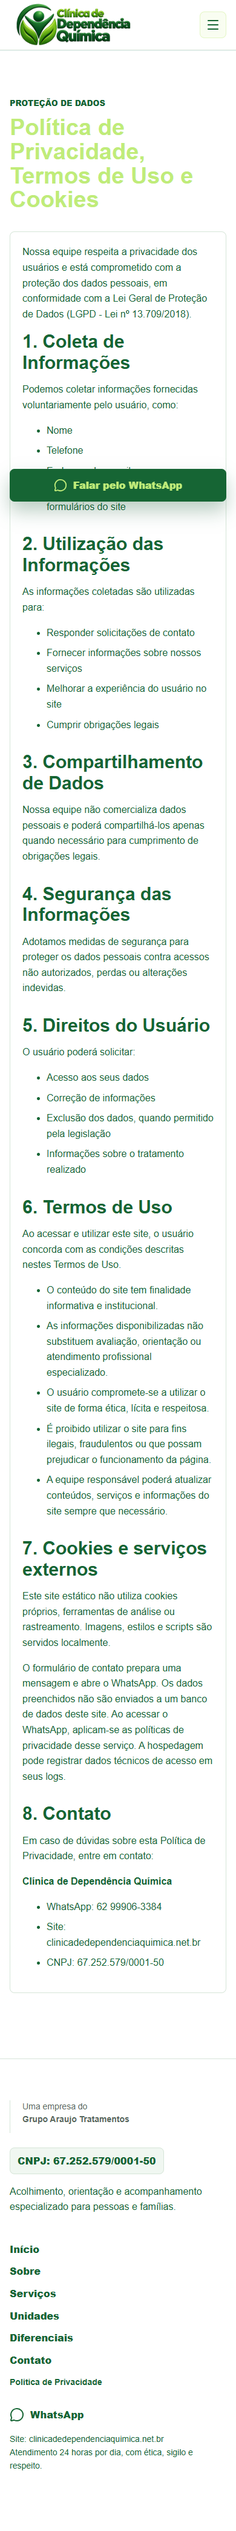
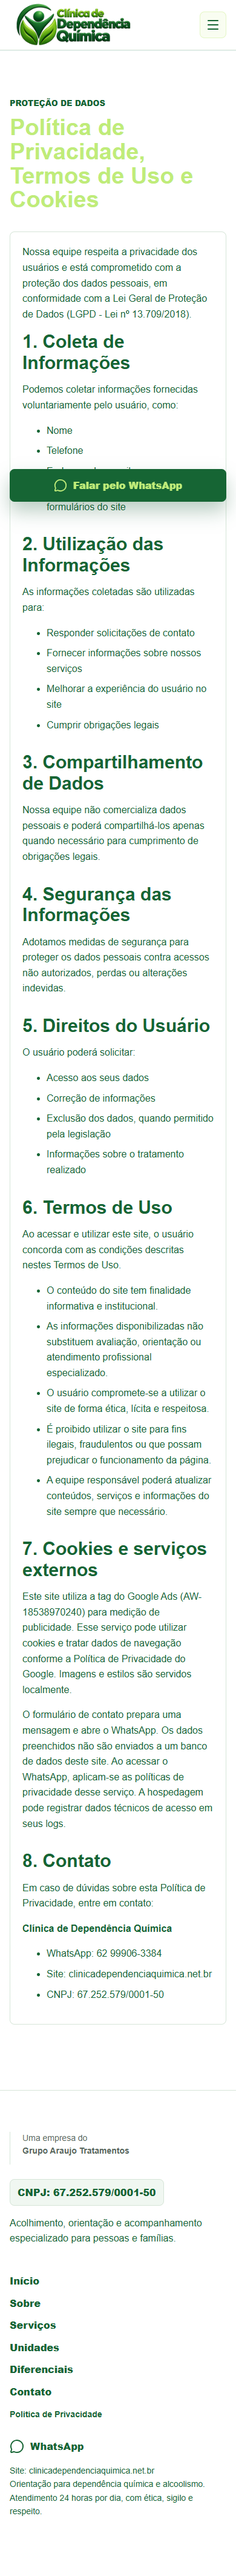
link das clinicas corrigido

diff --git a/assets/js/units.js b/assets/js/units.js
@@ -1,1 +1,1 @@
-window.GAT_CONFIG = {"whatsapp": "556299063384", "atendente": "equipe", "unidades": [{"id": "goiania-idoso-masculina-2", "nome": "Goiânia - Idoso Masculina 2", "cidade": "Goiânia", "estado": "GO", "modalidade": "Masculina", "descricao": "Goiânia - Idoso Masculina 2 ⭐⭐⭐ em Goiânia - GO. Tratamento Lar de Idosos com valor sob consulta. Meio padrão. Consulte disponibilidade.", "recursos": [], "fotos": ["assets/media/427cd3642923bb40015a.webp", "assets/media/cc33f22079661f767727.webp", "assets/media/fd2808c03150c9022508.webp", "assets/media/6036748a1e41e1aaaa00.webp", "assets/media/8fbf751f36380d94a654.webp", "assets/media/195a05e2be423a49d0fc.webp", "assets/media/4cbd1d166d1dd61d5aeb.webp", "assets/media/4155ca53f80f6104e83b.webp"], "url": ""}, {"id": "corumbaiba-masculina-1", "nome": "Corumbaíba - Masculina 1", "cidade": "Corumbaíba", "estado": "GO", "modalidade": "Masculina", "descricao": "Corumbaíba - Masculina 1 ⭐⭐⭐ em Corumbaíba - GO. Tratamento Voluntário e Involuntário com valor sob consulta. Popular. Consulte disponibilidade.", "recursos": [], "fotos": ["assets/media/9cb9c52737153667db05.webp", "assets/media/a15bd3b739c5f13d6792.webp", "assets/media/682801a2c1dea6ad23b9.webp", "assets/media/dc340a9bf6c7bdd74ee4.webp", "assets/media/e8e45a8a4b342f0343c6.webp", "assets/media/b28f193b29bf6669073d.webp", "assets/media/437e5971cb4d68b9d1f6.webp", "assets/media/2c321b13eb25618b7112.webp", "assets/media/84cfaafa19a9b7d8f9ba.webp", "assets/media/33b5687242ba8bf9d43f.webp", "assets/media/3ae8b7a3df43f05c01f1.webp", "assets/media/016b930a4c0a2327f2bc.webp"], "url": ""}, {"id": "anapolis-feminina-1", "nome": "Anápolis - Feminina 1", "cidade": "Anápolis", "estado": "GO", "modalidade": "Feminina", "descricao": "Anápolis - Feminina 1 ⭐⭐⭐ em Anápolis - GO. Tratamento Voluntário e Involuntário com valor sob consulta. Meio padrão. Consulte disponibilidade.", "recursos": [], "fotos": ["assets/media/b2e0cd79243a9f98409d.webp", "assets/media/b0f86d0efbf8eb99ebe7.webp", "assets/media/d274cfa06ad95f3bbc24.webp", "assets/media/3eb56accb69e7f3b12d1.webp", "assets/media/4bc618c6c8952773ea6b.webp", "assets/media/4a251c982dbfde704d24.webp", "assets/media/27bbfea29b2ac36787f9.webp", "assets/media/f1bb0b000c0336a913d5.webp", "assets/media/b55add92314c8ac632d8.webp", "assets/media/641e198afaf48e90d81d.webp", "assets/media/97e3b5a0330693116732.webp", "assets/media/f214a3440264955100b8.webp", "assets/media/70a8fd131a883529c545.webp", "assets/media/df505790a877ccdfdb27.webp", "assets/media/f0ecf6051a7b27c61989.webp", "assets/media/c350a7293fa9bd6dc577.webp", "assets/media/d1b735140f6e9d3201a7.webp", "assets/media/ccf06262c7c24b2ee12c.webp", "assets/media/bcad87ce07ec126a65c6.webp", "assets/media/2dd2d7339b98fb77a831.webp"], "url": ""}, {"id": "aparecida-de-goiania-masculina-3", "nome": "Aparecida de Goiânia - Masculina 3", "cidade": "Aparecida de Goiânia", "estado": "GO", "modalidade": "Masculina", "descricao": "Aparecida de Goiânia - Masculina 3 ⭐⭐⭐ em Aparecida de Goiânia - GO. Tratamento Voluntário e Involuntário com valor sob consulta. Meio padrão. Consulte disponibilidade.", "recursos": [], "fotos": ["assets/media/f6fcdc0563b84cb86832.webp", "assets/media/bf678a14745e68d600d2.webp", "assets/media/e1905871313c7171cb84.webp", "assets/media/41cc2a6e9d723414a15f.webp", "assets/media/22981ae6b9d1e222233e.webp", "assets/media/7b58e1593744f5c7afe5.webp", "assets/media/3f8c21ad08a6764a8580.webp", "assets/media/4d8bd66ec2503741df31.webp", "assets/media/d0022c1ae74eeeeef374.webp", "assets/media/efc3711f69fbe3a70f1d.webp", "assets/media/e466e155c0ee7bf4df76.webp", "assets/media/1ab22a8a4510c23fba5b.webp", "assets/media/ecf240ec81120a4a3aa1.webp"], "url": ""}, {"id": "goiania-feminina-2", "nome": "Goiânia - Feminina 2", "cidade": "Goiânia", "estado": "GO", "modalidade": "Feminina", "descricao": "Goiânia - Feminina 2 ⭐⭐⭐ em Goiânia - GO. Tratamento Voluntário com valor sob consulta. Meio padrão. Consulte disponibilidade.", "recursos": [], "fotos": ["assets/media/b65a3763e73fed0c8395.webp", "assets/media/4f9d5c3a208a275bc110.webp", "assets/media/4f91a2faccbd1b529103.webp", "assets/media/d66fa425bc9662d1657e.webp", "assets/media/7de343d1f59572a74485.webp", "assets/media/25260f053501a53d8728.webp", "assets/media/bcc12a415a77ae8a934c.webp", "assets/media/90c44f7f9fba665dfc9c.webp", "assets/media/f9677e7f975d5a9bd4c6.webp", "assets/media/ecce257ec7fd5cb714fc.webp", "assets/media/550f897aa00326d2205b.webp", "assets/media/1ddafff143a8c3c076d2.webp", "assets/media/5f561254fd2badd6b687.webp", "assets/media/b008f09bfdfa8587f60d.webp", "assets/media/68e6080212870c40d169.webp", "assets/media/e9957fe3b5babb598914.webp", "assets/media/ee8de95b10e3c60074ac.webp", "assets/media/0f9b523c45a0c3cda362.webp", "assets/media/1c63fdc2df0724f4a1f8.webp", "assets/media/072382ad3a9d0adedb92.webp", "assets/media/019568b5ad7b1b1d04cc.webp", "assets/media/d7cdbc41df427c0434a8.webp", "assets/media/3e2762a39bda8b32ba37.webp", "assets/media/28ce775941355399c51d.webp", "assets/media/eeb2369c1e0a25b3af24.webp", "assets/media/fb2ad270b58d7ab10e54.webp", "assets/media/ecdf79412c9fa39bbbca.webp", "assets/media/d56de365173621b96463.webp", "assets/media/0d9a540b0ce2e6e304cc.webp", "assets/media/d75065474598cfe06068.webp"], "url": ""}, {"id": "trindade-masculina-1", "nome": "Trindade - Masculina 1", "cidade": "Trindade", "estado": "GO", "modalidade": "Masculina", "descricao": "Trindade - Masculina 1 ⭐⭐⭐ em Trindade - GO. Tratamento Voluntário e Involuntário com valor sob consulta. Popular. Consulte disponibilidade.", "recursos": [], "fotos": ["assets/media/3a4bf1b68be48ac88ca1.webp", "assets/media/9ed23ab50fd785d128a4.webp", "assets/media/2191502ab73042caab0f.webp", "assets/media/7af73d23b6b2a2309850.webp", "assets/media/ae082239c2696405ceff.webp", "assets/media/402e9c2a6434c3f6fd24.webp", "assets/media/a733540559967c2bc2a6.webp", "assets/media/827a1f73dd378f50a117.webp", "assets/media/b767ccabe5de2f8f7ada.webp", "assets/media/695b1f859fefe27d1458.webp", "assets/media/c453564c26c11325f086.webp", "assets/media/edc83db3d5843a759313.webp", "assets/media/ff60ff6fd8489f3a9331.webp", "assets/media/1d3e8ce52103aea09878.webp", "assets/media/101ded144e8dfaf4bd06.webp", "assets/media/350649037f5c618df3f4.webp", "assets/media/962c1238b62796f8db8b.webp", "assets/media/cc7acc3d790233fb7d09.webp", "assets/media/4dfa7e741130bb75fafd.webp"], "url": ""}, {"id": "cachoeira-dourada-masculina-1", "nome": "Cachoeira Dourada - Masculina 1", "cidade": "Cachoeira Dourada", "estado": "GO", "modalidade": "Masculina", "descricao": "Cachoeira Dourada - Masculina 1 ⭐⭐⭐ em Cachoeira Dourada - GO. Tratamento Voluntário e Involuntário com valor sob consulta. Popular. Consulte disponibilidade.", "recursos": [], "fotos": ["assets/media/d767e341996266096039.webp", "assets/media/fc21aaa6ad12317b8f1d.webp", "assets/media/fecb68ebb0b910d7b66e.webp", "assets/media/cd163192b1db8c3dec20.webp", "assets/media/2ebaef522664cba1c077.webp", "assets/media/18dbba7d0e6c64c93fff.webp", "assets/media/a62f4edc46135cf0cc02.webp", "assets/media/0439757a3b2a16a4a561.webp", "assets/media/e536923c6cb48412cbf3.webp", "assets/media/090e8534cb71183256f0.webp", "assets/media/20a89dd2828e5ca1acea.webp", "assets/media/9835cc651f0b001e5637.webp", "assets/media/54c8e8261fcd0005e6bd.webp", "assets/media/800949074aba2949163a.webp", "assets/media/b9b67f6711484910aa3b.webp", "assets/media/255565931f9e255775a7.webp", "assets/media/29f45beb59ac6b65a536.webp"], "url": ""}, {"id": "hidrolandia-feminina-1", "nome": "Hidrolândia - Feminina 1", "cidade": "Hidrolândia", "estado": "GO", "modalidade": "Feminina", "descricao": "Hidrolândia - Feminina 1 ⭐⭐⭐ em Hidrolândia - GO. Tratamento Voluntário e Involuntário com valor sob consulta. Popular. Consulte disponibilidade.", "recursos": [], "fotos": ["assets/media/caaaf63ec070c715769a.webp", "assets/media/5100e8f7d31f926d91ed.webp", "assets/media/08fdcfb47eabe86de0ff.webp", "assets/media/31f133c16d1749b1c916.webp", "assets/media/f82721cfe4cbbce9b070.webp", "assets/media/c984326a6fec0eadb564.webp", "assets/media/f946674d77dd75547b05.webp", "assets/media/8a974247fcf24dae264b.webp"], "url": ""}, {"id": "itumbiara-masculina-1", "nome": "Itumbiara - Masculina 1", "cidade": "Itumbiara", "estado": "GO", "modalidade": "Masculina", "descricao": "Itumbiara - Masculina 1 ⭐⭐⭐ em Itumbiara - GO. Tratamento Voluntário com valor sob consulta. Popular. Consulte disponibilidade.", "recursos": [], "fotos": ["assets/media/066b6c701401be06ec7a.webp", "assets/media/6efecf91e90bf3360b90.webp", "assets/media/8ffc9951a9e269788240.webp", "assets/media/ed0f35504ff74018b7ce.webp", "assets/media/938dacf26655dfcfa201.webp", "assets/media/2c6c1a3d44bcbcd5d7ca.webp", "assets/media/878a73503bdf5607f64c.webp"], "url": ""}], "unidadeFallbackImage": "assets/img/backgrounds/chacara-piscina-01.webp"};
+window.GAT_CONFIG = {"whatsapp": "556299063384", "atendente": "equipe", "unidades": [{"id": "goiania-idoso-masculina-2", "nome": "Goiânia - Idoso Masculina 2", "cidade": "Goiânia", "estado": "GO", "modalidade": "Masculina", "descricao": "Goiânia - Idoso Masculina 2 ⭐⭐⭐ em Goiânia - GO. Tratamento Lar de Idosos com valor sob consulta. Meio padrão. Consulte disponibilidade.", "recursos": [], "fotos": ["assets/media/427cd3642923bb40015a.webp", "assets/media/cc33f22079661f767727.webp", "assets/media/fd2808c03150c9022508.webp", "assets/media/6036748a1e41e1aaaa00.webp", "assets/media/8fbf751f36380d94a654.webp", "assets/media/195a05e2be423a49d0fc.webp", "assets/media/4cbd1d166d1dd61d5aeb.webp", "assets/media/4155ca53f80f6104e83b.webp"], "url": "https://grupoaraujotratamentos.com.br/clinicas/r/18CF6175C7/clinica/goiania-idoso-masculina-2"}, {"id": "corumbaiba-masculina-1", "nome": "Corumbaíba - Masculina 1", "cidade": "Corumbaíba", "estado": "GO", "modalidade": "Masculina", "descricao": "Corumbaíba - Masculina 1 ⭐⭐⭐ em Corumbaíba - GO. Tratamento Voluntário e Involuntário com valor sob consulta. Popular. Consulte disponibilidade.", "recursos": [], "fotos": ["assets/media/9cb9c52737153667db05.webp", "assets/media/a15bd3b739c5f13d6792.webp", "assets/media/682801a2c1dea6ad23b9.webp", "assets/media/dc340a9bf6c7bdd74ee4.webp", "assets/media/e8e45a8a4b342f0343c6.webp", "assets/media/b28f193b29bf6669073d.webp", "assets/media/437e5971cb4d68b9d1f6.webp", "assets/media/2c321b13eb25618b7112.webp", "assets/media/84cfaafa19a9b7d8f9ba.webp", "assets/media/33b5687242ba8bf9d43f.webp", "assets/media/3ae8b7a3df43f05c01f1.webp", "assets/media/016b930a4c0a2327f2bc.webp"], "url": "https://grupoaraujotratamentos.com.br/clinicas/r/18CF6175C7/clinica/corumbaiba-masculina-1"}, {"id": "anapolis-feminina-1", "nome": "Anápolis - Feminina 1", "cidade": "Anápolis", "estado": "GO", "modalidade": "Feminina", "descricao": "Anápolis - Feminina 1 ⭐⭐⭐ em Anápolis - GO. Tratamento Voluntário e Involuntário com valor sob consulta. Meio padrão. Consulte disponibilidade.", "recursos": [], "fotos": ["assets/media/b2e0cd79243a9f98409d.webp", "assets/media/b0f86d0efbf8eb99ebe7.webp", "assets/media/d274cfa06ad95f3bbc24.webp", "assets/media/3eb56accb69e7f3b12d1.webp", "assets/media/4bc618c6c8952773ea6b.webp", "assets/media/4a251c982dbfde704d24.webp", "assets/media/27bbfea29b2ac36787f9.webp", "assets/media/f1bb0b000c0336a913d5.webp", "assets/media/b55add92314c8ac632d8.webp", "assets/media/641e198afaf48e90d81d.webp", "assets/media/97e3b5a0330693116732.webp", "assets/media/f214a3440264955100b8.webp", "assets/media/70a8fd131a883529c545.webp", "assets/media/df505790a877ccdfdb27.webp", "assets/media/f0ecf6051a7b27c61989.webp", "assets/media/c350a7293fa9bd6dc577.webp", "assets/media/d1b735140f6e9d3201a7.webp", "assets/media/ccf06262c7c24b2ee12c.webp", "assets/media/bcad87ce07ec126a65c6.webp", "assets/media/2dd2d7339b98fb77a831.webp"], "url": "https://grupoaraujotratamentos.com.br/clinicas/r/18CF6175C7/clinica/anapolis-feminina-1"}, {"id": "aparecida-de-goiania-masculina-3", "nome": "Aparecida de Goiânia - Masculina 3", "cidade": "Aparecida de Goiânia", "estado": "GO", "modalidade": "Masculina", "descricao": "Aparecida de Goiânia - Masculina 3 ⭐⭐⭐ em Aparecida de Goiânia - GO. Tratamento Voluntário e Involuntário com valor sob consulta. Meio padrão. Consulte disponibilidade.", "recursos": [], "fotos": ["assets/media/f6fcdc0563b84cb86832.webp", "assets/media/bf678a14745e68d600d2.webp", "assets/media/e1905871313c7171cb84.webp", "assets/media/41cc2a6e9d723414a15f.webp", "assets/media/22981ae6b9d1e222233e.webp", "assets/media/7b58e1593744f5c7afe5.webp", "assets/media/3f8c21ad08a6764a8580.webp", "assets/media/4d8bd66ec2503741df31.webp", "assets/media/d0022c1ae74eeeeef374.webp", "assets/media/efc3711f69fbe3a70f1d.webp", "assets/media/e466e155c0ee7bf4df76.webp", "assets/media/1ab22a8a4510c23fba5b.webp", "assets/media/ecf240ec81120a4a3aa1.webp"], "url": "https://grupoaraujotratamentos.com.br/clinicas/r/18CF6175C7/clinica/aparecida-de-goiania-masculina-3"}, {"id": "goiania-feminina-2", "nome": "Goiânia - Feminina 2", "cidade": "Goiânia", "estado": "GO", "modalidade": "Feminina", "descricao": "Goiânia - Feminina 2 ⭐⭐⭐ em Goiânia - GO. Tratamento Voluntário com valor sob consulta. Meio padrão. Consulte disponibilidade.", "recursos": [], "fotos": ["assets/media/b65a3763e73fed0c8395.webp", "assets/media/4f9d5c3a208a275bc110.webp", "assets/media/4f91a2faccbd1b529103.webp", "assets/media/d66fa425bc9662d1657e.webp", "assets/media/7de343d1f59572a74485.webp", "assets/media/25260f053501a53d8728.webp", "assets/media/bcc12a415a77ae8a934c.webp", "assets/media/90c44f7f9fba665dfc9c.webp", "assets/media/f9677e7f975d5a9bd4c6.webp", "assets/media/ecce257ec7fd5cb714fc.webp", "assets/media/550f897aa00326d2205b.webp", "assets/media/1ddafff143a8c3c076d2.webp", "assets/media/5f561254fd2badd6b687.webp", "assets/media/b008f09bfdfa8587f60d.webp", "assets/media/68e6080212870c40d169.webp", "assets/media/e9957fe3b5babb598914.webp", "assets/media/ee8de95b10e3c60074ac.webp", "assets/media/0f9b523c45a0c3cda362.webp", "assets/media/1c63fdc2df0724f4a1f8.webp", "assets/media/072382ad3a9d0adedb92.webp", "assets/media/019568b5ad7b1b1d04cc.webp", "assets/media/d7cdbc41df427c0434a8.webp", "assets/media/3e2762a39bda8b32ba37.webp", "assets/media/28ce775941355399c51d.webp", "assets/media/eeb2369c1e0a25b3af24.webp", "assets/media/fb2ad270b58d7ab10e54.webp", "assets/media/ecdf79412c9fa39bbbca.webp", "assets/media/d56de365173621b96463.webp", "assets/media/0d9a540b0ce2e6e304cc.webp", "assets/media/d75065474598cfe06068.webp"], "url": "https://grupoaraujotratamentos.com.br/clinicas/r/18CF6175C7/clinica/goiania-feminina-2"}, {"id": "trindade-masculina-1", "nome": "Trindade - Masculina 1", "cidade": "Trindade", "estado": "GO", "modalidade": "Masculina", "descricao": "Trindade - Masculina 1 ⭐⭐⭐ em Trindade - GO. Tratamento Voluntário e Involuntário com valor sob consulta. Popular. Consulte disponibilidade.", "recursos": [], "fotos": ["assets/media/3a4bf1b68be48ac88ca1.webp", "assets/media/9ed23ab50fd785d128a4.webp", "assets/media/2191502ab73042caab0f.webp", "assets/media/7af73d23b6b2a2309850.webp", "assets/media/ae082239c2696405ceff.webp", "assets/media/402e9c2a6434c3f6fd24.webp", "assets/media/a733540559967c2bc2a6.webp", "assets/media/827a1f73dd378f50a117.webp", "assets/media/b767ccabe5de2f8f7ada.webp", "assets/media/695b1f859fefe27d1458.webp", "assets/media/c453564c26c11325f086.webp", "assets/media/edc83db3d5843a759313.webp", "assets/media/ff60ff6fd8489f3a9331.webp", "assets/media/1d3e8ce52103aea09878.webp", "assets/media/101ded144e8dfaf4bd06.webp", "assets/media/350649037f5c618df3f4.webp", "assets/media/962c1238b62796f8db8b.webp", "assets/media/cc7acc3d790233fb7d09.webp", "assets/media/4dfa7e741130bb75fafd.webp"], "url": "https://grupoaraujotratamentos.com.br/clinicas/r/18CF6175C7/clinica/trindade-masculina-1"}, {"id": "cachoeira-dourada-masculina-1", "nome": "Cachoeira Dourada - Masculina 1", "cidade": "Cachoeira Dourada", "estado": "GO", "modalidade": "Masculina", "descricao": "Cachoeira Dourada - Masculina 1 ⭐⭐⭐ em Cachoeira Dourada - GO. Tratamento Voluntário e Involuntário com valor sob consulta. Popular. Consulte disponibilidade.", "recursos": [], "fotos": ["assets/media/d767e341996266096039.webp", "assets/media/fc21aaa6ad12317b8f1d.webp", "assets/media/fecb68ebb0b910d7b66e.webp", "assets/media/cd163192b1db8c3dec20.webp", "assets/media/2ebaef522664cba1c077.webp", "assets/media/18dbba7d0e6c64c93fff.webp", "assets/media/a62f4edc46135cf0cc02.webp", "assets/media/0439757a3b2a16a4a561.webp", "assets/media/e536923c6cb48412cbf3.webp", "assets/media/090e8534cb71183256f0.webp", "assets/media/20a89dd2828e5ca1acea.webp", "assets/media/9835cc651f0b001e5637.webp", "assets/media/54c8e8261fcd0005e6bd.webp", "assets/media/800949074aba2949163a.webp", "assets/media/b9b67f6711484910aa3b.webp", "assets/media/255565931f9e255775a7.webp", "assets/media/29f45beb59ac6b65a536.webp"], "url": "https://grupoaraujotratamentos.com.br/clinicas/r/18CF6175C7/clinica/cachoeira-dourada-masculina-1"}, {"id": "hidrolandia-feminina-1", "nome": "Hidrolândia - Feminina 1", "cidade": "Hidrolândia", "estado": "GO", "modalidade": "Feminina", "descricao": "Hidrolândia - Feminina 1 ⭐⭐⭐ em Hidrolândia - GO. Tratamento Voluntário e Involuntário com valor sob consulta. Popular. Consulte disponibilidade.", "recursos": [], "fotos": ["assets/media/caaaf63ec070c715769a.webp", "assets/media/5100e8f7d31f926d91ed.webp", "assets/media/08fdcfb47eabe86de0ff.webp", "assets/media/31f133c16d1749b1c916.webp", "assets/media/f82721cfe4cbbce9b070.webp", "assets/media/c984326a6fec0eadb564.webp", "assets/media/f946674d77dd75547b05.webp", "assets/media/8a974247fcf24dae264b.webp"], "url": "https://grupoaraujotratamentos.com.br/clinicas/r/18CF6175C7/clinica/hidrolandia-feminina-1"}, {"id": "itumbiara-masculina-1", "nome": "Itumbiara - Masculina 1", "cidade": "Itumbiara", "estado": "GO", "modalidade": "Masculina", "descricao": "Itumbiara - Masculina 1 ⭐⭐⭐ em Itumbiara - GO. Tratamento Voluntário com valor sob consulta. Popular. Consulte disponibilidade.", "recursos": [], "fotos": ["assets/media/066b6c701401be06ec7a.webp", "assets/media/6efecf91e90bf3360b90.webp", "assets/media/8ffc9951a9e269788240.webp", "assets/media/ed0f35504ff74018b7ce.webp", "assets/media/938dacf26655dfcfa201.webp", "assets/media/2c6c1a3d44bcbcd5d7ca.webp", "assets/media/878a73503bdf5607f64c.webp"], "url": "https://grupoaraujotratamentos.com.br/clinicas/r/18CF6175C7/clinica/itumbiara-masculina-1"}], "unidadeFallbackImage": "assets/img/backgrounds/chacara-piscina-01.webp"};

diff --git a/politica-de-privacidade.html b/politica-de-privacidade.html
@@ -1,5 +1,13 @@
 <!doctype html>
-<html lang="pt-BR"><head><meta charset="utf-8"><meta name="viewport" content="width=device-width, initial-scale=1"><title>Política de Privacidade | Clínica de Dependência Química</title><meta name="description" content="Política de privacidade e termos de uso do site de acolhimento para dependência química e alcoolismo. Saiba como funciona o contato pelo WhatsApp."><meta name="theme-color" content="#166534"><link rel="canonical" href="https://clinicadependenciaquimica.net.br/politica-de-privacidade.html"><link rel="icon" href="assets/favicon.png"><meta property="og:locale" content="pt_BR"><meta property="og:type" content="website"><meta property="og:title" content="Política de Privacidade | Clínica de Dependência Química"><meta property="og:description" content="Política de privacidade e termos de uso do site de acolhimento para dependência química e alcoolismo. Saiba como funciona o contato pelo WhatsApp."><meta property="og:url" content="https://clinicadependenciaquimica.net.br/politica-de-privacidade.html"><meta property="og:image" content="https://clinicadependenciaquimica.net.br/assets/og.png"><meta name="twitter:card" content="summary_large_image"><meta name="twitter:description" content="Política de privacidade e termos de uso do site de acolhimento para dependência química e alcoolismo. Saiba como funciona o contato pelo WhatsApp."><link rel="stylesheet" href="assets/vendor/swiper/11.2.10/swiper-bundle.min.css"><link rel="stylesheet" href="assets/vendor/glightbox/3.3.1/glightbox.min.css"><link rel="stylesheet" href="assets/vendor/aos/2.3.4/aos.css"><link rel="stylesheet" href="assets/style.css"><link rel="stylesheet" href="assets/static.css"><script type="application/ld+json">{"@context": "https://schema.org", "@type": "Organization", "name": "Clínica de Dependência Química", "url": "https://clinicadependenciaquimica.net.br", "logo": "https://clinicadependenciaquimica.net.br/assets/logotipo-horizontal.png", "telephone": "+5562999063384", "identifier": "67.252.579/0001-50", "areaServed": {"@type": "State", "name": "Goiás"}, "description": "Acolhimento e orientação para dependência química e alcoolismo em Goiás. Conheça as unidades parceiras e fale com nossa equipe. Atendimento 24 horas."}</script></head><body class="home static-site">
+<html lang="pt-BR"><head><meta charset="utf-8"><meta name="viewport" content="width=device-width, initial-scale=1"><title>Política de Privacidade | Clínica de Dependência Química</title><meta name="description" content="Política de privacidade e termos de uso do site de acolhimento para dependência química e alcoolismo. Saiba como funciona o contato pelo WhatsApp."><meta name="theme-color" content="#166534"><link rel="canonical" href="https://clinicadependenciaquimica.net.br/politica-de-privacidade.html"><link rel="icon" href="assets/favicon.png"><meta property="og:locale" content="pt_BR"><meta property="og:type" content="website"><meta property="og:title" content="Política de Privacidade | Clínica de Dependência Química"><meta property="og:description" content="Política de privacidade e termos de uso do site de acolhimento para dependência química e alcoolismo. Saiba como funciona o contato pelo WhatsApp."><meta property="og:url" content="https://clinicadependenciaquimica.net.br/politica-de-privacidade.html"><meta property="og:image" content="https://clinicadependenciaquimica.net.br/assets/og.png"><meta name="twitter:card" content="summary_large_image"><meta name="twitter:description" content="Política de privacidade e termos de uso do site de acolhimento para dependência química e alcoolismo. Saiba como funciona o contato pelo WhatsApp."><link rel="stylesheet" href="assets/vendor/swiper/11.2.10/swiper-bundle.min.css"><link rel="stylesheet" href="assets/vendor/glightbox/3.3.1/glightbox.min.css"><link rel="stylesheet" href="assets/vendor/aos/2.3.4/aos.css"><link rel="stylesheet" href="assets/style.css"><link rel="stylesheet" href="assets/static.css"><script type="application/ld+json">{"@context": "https://schema.org", "@type": "Organization", "name": "Clínica de Dependência Química", "url": "https://clinicadependenciaquimica.net.br", "logo": "https://clinicadependenciaquimica.net.br/assets/logotipo-horizontal.png", "telephone": "+5562999063384", "identifier": "67.252.579/0001-50", "areaServed": {"@type": "State", "name": "Goiás"}, "description": "Acolhimento e orientação para dependência química e alcoolismo em Goiás. Conheça as unidades parceiras e fale com nossa equipe. Atendimento 24 horas."}</script><!-- Google tag (gtag.js) -->
+<script async src="https://www.googletagmanager.com/gtag/js?id=AW-18538970240"></script>
+<script>
+  window.dataLayer = window.dataLayer || [];
+  function gtag(){dataLayer.push(arguments);}
+  gtag('js', new Date());
+  gtag('config', 'AW-18538970240');
+</script>
+</head><body class="home static-site">
 <header class="site-header" data-header="">
 <div class="container header-inner">
 <a aria-label="Clínica de Dependência Química - início" class="brand" href="index.html#inicio">
@@ -72,7 +80,7 @@
 <li>A equipe responsável poderá atualizar conteúdos, serviços e informações do site sempre que necessário.</li>
 </ul>
 </section>
-<section class="policy-section"><h2>7. Cookies e serviços externos</h2><p>Este site estático não utiliza cookies próprios, ferramentas de análise ou rastreamento. Imagens, estilos e scripts são servidos localmente.</p><p>O formulário de contato prepara uma mensagem e abre o WhatsApp. Os dados preenchidos não são enviados a um banco de dados deste site. Ao acessar o WhatsApp, aplicam-se as políticas de privacidade desse serviço. A hospedagem pode registrar dados técnicos de acesso em seus logs.</p></section>
+<section class="policy-section"><h2>7. Cookies e serviços externos</h2><p>Este site utiliza a tag do Google Ads (AW-18538970240) para medição de publicidade. Esse serviço pode utilizar cookies e tratar dados de navegação conforme a <a href="https://policies.google.com/privacy" target="_blank" rel="noopener noreferrer">Política de Privacidade do Google</a>. Imagens e estilos são servidos localmente.</p><p>O formulário de contato prepara uma mensagem e abre o WhatsApp. Os dados preenchidos não são enviados a um banco de dados deste site. Ao acessar o WhatsApp, aplicam-se as políticas de privacidade desse serviço. A hospedagem pode registrar dados técnicos de acesso em seus logs.</p></section>
 <section class="policy-section">
 <h2>8. Contato</h2>
 <p>Em caso de dúvidas sobre esta Política de Privacidade, entre em contato:</p>

diff --git a/index.html b/index.html
@@ -1,5 +1,13 @@
 <!doctype html>
-<html lang="pt-BR"><head><meta charset="utf-8"><meta name="viewport" content="width=device-width, initial-scale=1"><title>Dependência Química e Alcoolismo em Goiás | Acolhimento</title><meta name="description" content="Acolhimento e orientação para dependência química e alcoolismo em Goiás. Conheça as unidades parceiras e fale com nossa equipe. Atendimento 24 horas."><meta name="theme-color" content="#166534"><link rel="canonical" href="https://clinicadependenciaquimica.net.br/"><link rel="icon" href="assets/favicon.png"><meta property="og:locale" content="pt_BR"><meta property="og:type" content="website"><meta property="og:title" content="Dependência Química e Alcoolismo em Goiás | Acolhimento"><meta property="og:description" content="Acolhimento e orientação para dependência química e alcoolismo em Goiás. Conheça as unidades parceiras e fale com nossa equipe. Atendimento 24 horas."><meta property="og:url" content="https://clinicadependenciaquimica.net.br/"><meta property="og:image" content="https://clinicadependenciaquimica.net.br/assets/og.png"><meta name="twitter:card" content="summary_large_image"><meta name="twitter:description" content="Acolhimento e orientação para dependência química e alcoolismo em Goiás. Conheça as unidades parceiras e fale com nossa equipe. Atendimento 24 horas."><link rel="stylesheet" href="assets/vendor/swiper/11.2.10/swiper-bundle.min.css"><link rel="stylesheet" href="assets/vendor/glightbox/3.3.1/glightbox.min.css"><link rel="stylesheet" href="assets/vendor/aos/2.3.4/aos.css"><link rel="stylesheet" href="assets/style.css"><link rel="stylesheet" href="assets/static.css"><script type="application/ld+json">{"@context": "https://schema.org", "@type": "Organization", "name": "Clínica de Dependência Química", "url": "https://clinicadependenciaquimica.net.br", "logo": "https://clinicadependenciaquimica.net.br/assets/logotipo-horizontal.png", "telephone": "+5562999063384", "identifier": "67.252.579/0001-50", "areaServed": {"@type": "State", "name": "Goiás"}, "description": "Acolhimento e orientação para dependência química e alcoolismo em Goiás. Conheça as unidades parceiras e fale com nossa equipe. Atendimento 24 horas."}</script></head><body class="home static-site">
+<html lang="pt-BR"><head><meta charset="utf-8"><meta name="viewport" content="width=device-width, initial-scale=1"><title>Dependência Química e Alcoolismo em Goiás | Acolhimento</title><meta name="description" content="Acolhimento e orientação para dependência química e alcoolismo em Goiás. Conheça as unidades parceiras e fale com nossa equipe. Atendimento 24 horas."><meta name="theme-color" content="#166534"><link rel="canonical" href="https://clinicadependenciaquimica.net.br/"><link rel="icon" href="assets/favicon.png"><meta property="og:locale" content="pt_BR"><meta property="og:type" content="website"><meta property="og:title" content="Dependência Química e Alcoolismo em Goiás | Acolhimento"><meta property="og:description" content="Acolhimento e orientação para dependência química e alcoolismo em Goiás. Conheça as unidades parceiras e fale com nossa equipe. Atendimento 24 horas."><meta property="og:url" content="https://clinicadependenciaquimica.net.br/"><meta property="og:image" content="https://clinicadependenciaquimica.net.br/assets/og.png"><meta name="twitter:card" content="summary_large_image"><meta name="twitter:description" content="Acolhimento e orientação para dependência química e alcoolismo em Goiás. Conheça as unidades parceiras e fale com nossa equipe. Atendimento 24 horas."><link rel="stylesheet" href="assets/vendor/swiper/11.2.10/swiper-bundle.min.css"><link rel="stylesheet" href="assets/vendor/glightbox/3.3.1/glightbox.min.css"><link rel="stylesheet" href="assets/vendor/aos/2.3.4/aos.css"><link rel="stylesheet" href="assets/style.css"><link rel="stylesheet" href="assets/static.css"><script type="application/ld+json">{"@context": "https://schema.org", "@type": "Organization", "name": "Clínica de Dependência Química", "url": "https://clinicadependenciaquimica.net.br", "logo": "https://clinicadependenciaquimica.net.br/assets/logotipo-horizontal.png", "telephone": "+5562999063384", "identifier": "67.252.579/0001-50", "areaServed": {"@type": "State", "name": "Goiás"}, "description": "Acolhimento e orientação para dependência química e alcoolismo em Goiás. Conheça as unidades parceiras e fale com nossa equipe. Atendimento 24 horas."}</script><!-- Google tag (gtag.js) -->
+<script async src="https://www.googletagmanager.com/gtag/js?id=AW-18538970240"></script>
+<script>
+  window.dataLayer = window.dataLayer || [];
+  function gtag(){dataLayer.push(arguments);}
+  gtag('js', new Date());
+  gtag('config', 'AW-18538970240');
+</script>
+</head><body class="home static-site">
 <header class="site-header" data-header="">
 <div class="container header-inner">
 <a aria-label="Clínica de Dependência Química - início" class="brand" href="#inicio">

diff --git a/tools/build.py b/tools/build.py
@@ -102,7 +102,7 @@ local_units = []
 for original in units:
     unit = dict(original)
     unit['cidade'] = re.sub(r'\s*-\s*GO$', '', unit['cidade'], flags=re.I)
-    unit['url'] = ''  # Galeria e contato no próprio cartão; sem páginas extras.
+    unit['url'] = 'https://grupoaraujotratamentos.com.br/clinicas/r/18CF6175C7/clinica/' + unit['id']
     unit['fotos'] = [local_url(url) for url in unit['fotos'] if re.search(r'\.(webp|png|jpe?g|avif)(\?|$)', url, re.I)]
     assert unit['fotos'], f"Sem imagens: {unit['id']}"
     local_units.append(unit)
@@ -146,7 +146,7 @@ policy_source = fragment((SOURCE / 'politica-de-privacidade.html').read_text(enc
 policy_article = policy_source.select_one('.policy-card')
 cookie_section = policy_article.select('.policy-section')[6]
 cookie_section.clear()
-cookie_section.append(fragment('<h2>7. Cookies e serviços externos</h2><p>Este site estático não utiliza cookies próprios, ferramentas de análise ou rastreamento. Imagens, estilos e scripts são servidos localmente.</p><p>O formulário de contato prepara uma mensagem e abre o WhatsApp. Os dados preenchidos não são enviados a um banco de dados deste site. Ao acessar o WhatsApp, aplicam-se as políticas de privacidade desse serviço. A hospedagem pode registrar dados técnicos de acesso em seus logs.</p>'))
+cookie_section.append(fragment('<h2>7. Cookies e serviços externos</h2><p>Este site utiliza a tag do Google Ads (AW-18538970240) para medição de publicidade. Esse serviço pode utilizar cookies e tratar dados de navegação conforme a <a href="https://policies.google.com/privacy" target="_blank" rel="noopener noreferrer">Política de Privacidade do Google</a>. Imagens e estilos são servidos localmente.</p><p>O formulário de contato prepara uma mensagem e abre o WhatsApp. Os dados preenchidos não são enviados a um banco de dados deste site. Ao acessar o WhatsApp, aplicam-se as políticas de privacidade desse serviço. A hospedagem pode registrar dados técnicos de acesso em seus logs.</p>'))
 policy_html = str(policy_article).replace('https://www.grupoaraujotratamentos.com.br', DOMAIN).replace('www.grupoaraujotratamentos.com.br', 'clinicadependenciaquimica.net.br')
 policy_body = fragment(str(body))
 policy_body.select_one('main').replace_with(fragment('<main class="section section-white"><div class="container"><p class="eyebrow">Proteção de dados</p><h1>Política de Privacidade, Termos de Uso e Cookies</h1>' + policy_html + '</div></main>'))
@@ -162,6 +162,7 @@ def document(content, privacy=False):
     scripts = ''.join(f'<script src="assets/vendor/{v}.js" defer></script>' for v in vendors)
     schema = json.dumps({'@context':'https://schema.org','@type':'Organization','name':'Grupo Araújo Tratamentos','url':DOMAIN,'logo':DOMAIN+'/assets/logotipo-horizontal.png','telephone':'+558005757714','identifier':'67.252.579/0001-50','areaServed':{'@type':'State','name':'Goiás'}}, ensure_ascii=False)
     head = f'''<head><meta charset="utf-8"><meta name="viewport" content="width=device-width, initial-scale=1"><title>{title}</title><meta name="description" content="{description}"><meta name="theme-color" content="#0e2848"><link rel="canonical" href="{canonical}"><link rel="icon" href="assets/favicon.png"><meta property="og:locale" content="pt_BR"><meta property="og:type" content="website"><meta property="og:title" content="{title}"><meta property="og:description" content="{description}"><meta property="og:url" content="{canonical}"><meta property="og:image" content="{DOMAIN}/assets/og.png"><meta name="twitter:card" content="summary_large_image">{styles}<link rel="stylesheet" href="assets/style.css"><link rel="stylesheet" href="assets/static.css"><script type="application/ld+json">{schema}</script></head>'''
+    head = head.replace('</head>', '<!-- Google tag (gtag.js) -->\n<script async src="https://www.googletagmanager.com/gtag/js?id=AW-18538970240"></script>\n<script>\n  window.dataLayer = window.dataLayer || [];\n  function gtag(){dataLayer.push(arguments);}\n  gtag(\'js\', new Date());\n  gtag(\'config\', \'AW-18538970240\');\n</script>\n' + '</head>')
     content = str(content)
     content = content.replace('</body>', scripts + '<script src="assets/vendor/lucide/1.58.0/lucide.min.js" defer></script><script src="assets/js/units.js" defer></script><script src="assets/js/main.js" defer></script></body>')
     return '<!doctype html>\n<html lang="pt-BR">' + head + content + '</html>\n'

diff --git a/README.md b/README.md
@@ -48,3 +48,9 @@ O gerador depende de Beautiful Soup em `tools/lib` (já incluído no ambiente lo
 `tools/validate.cjs` utiliza Playwright e o Chrome instalado, com servidor local na porta 8765. Verifica filtros, nove cartões, galerias, FAQ, formulário sem envio, menu mobile, imagens, metadados, ausência de dependências externas e erros de JavaScript. Evidências e capturas ficam em `tools/validation/`.
 
 O HTML gerado recebeu metadados novos. O conteúdo estranho encontrado nos metadados da página inicial do domínio original não foi importado. Esta conversão não altera nem corrige o WordPress publicado.
+
+## Google Ads e links das unidades
+
+Google Ads: `AW-18538970240` em `index.html` e `politica-de-privacidade.html`.
+Links de detalhes: nove unidades com `/clinicas/r/18CF6175C7/clinica/<id>`.
+O Google passa a ser uma dependencia externa intencional.
